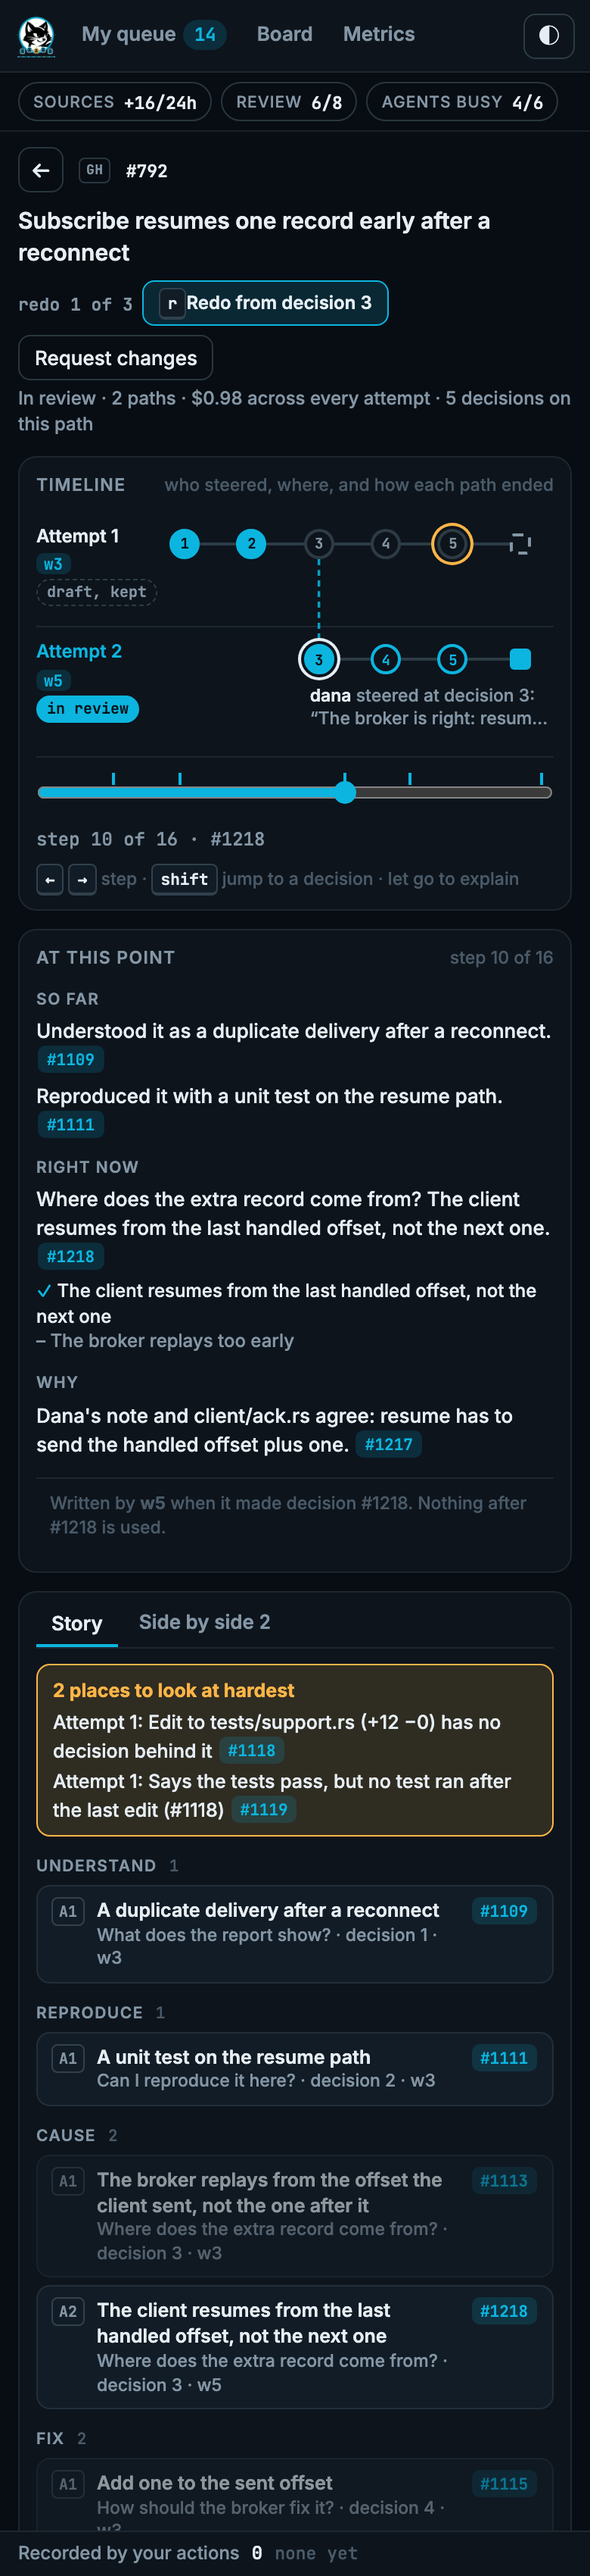
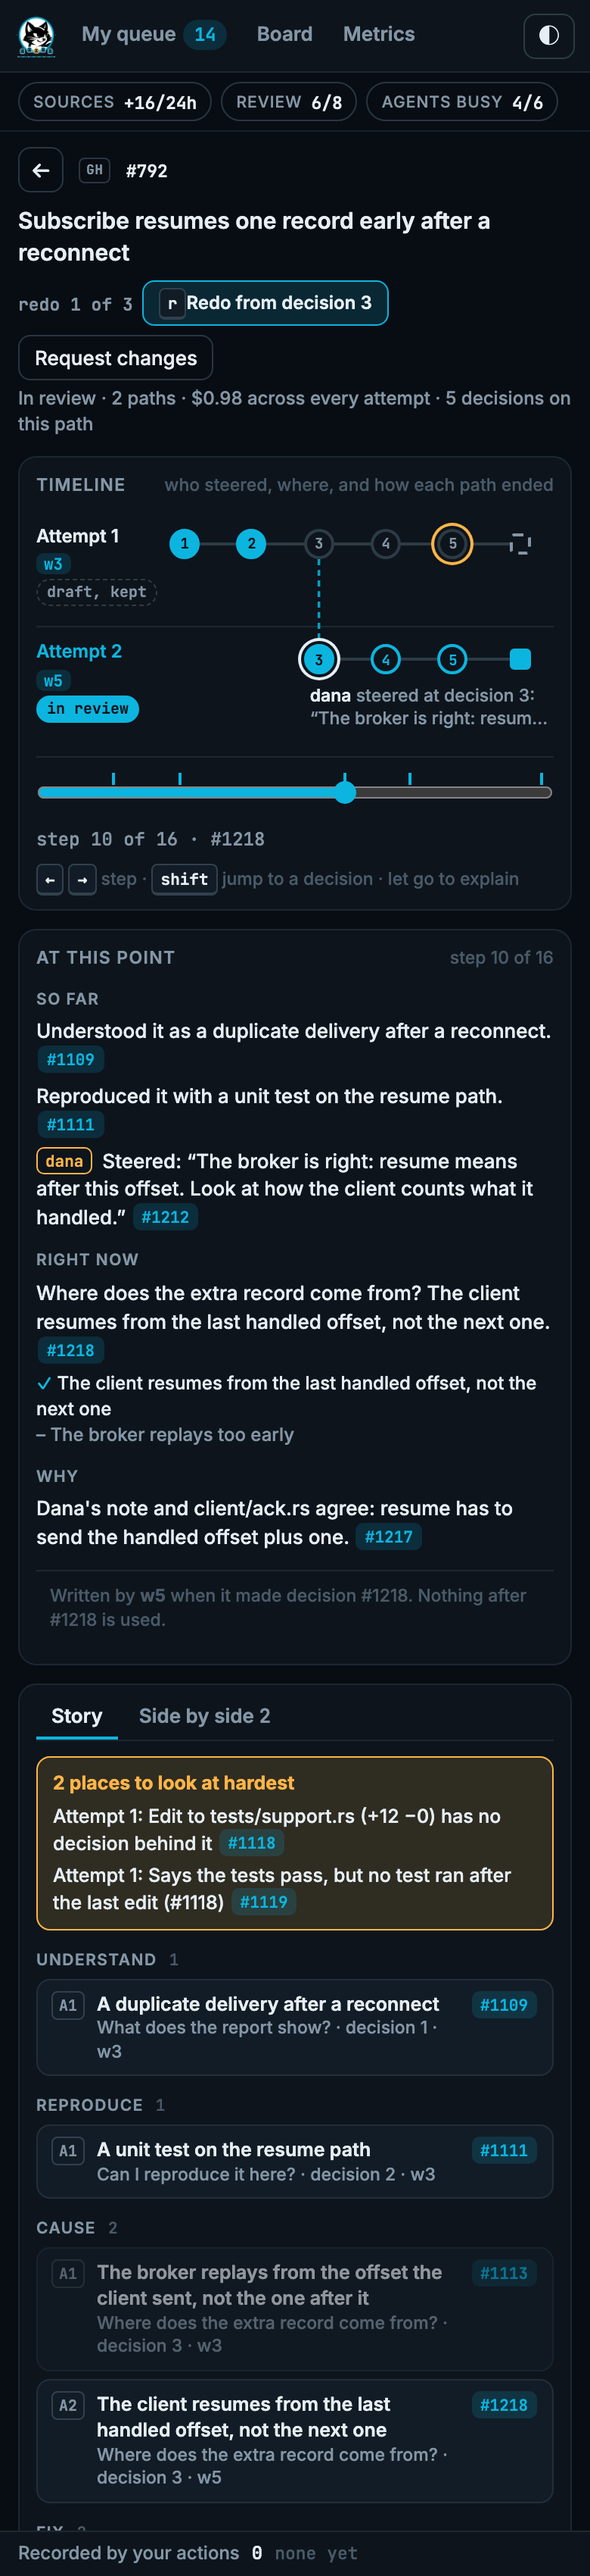
Replay: a person's steer stays on the path in So far and in the handoff; check and re-shot stills

Changed region(s): [[0.0615, 0.4365, 0.9538, 0.9665], [0.8, 0.8729, 0.9231, 0.9665], [0.0615, 0.9353, 0.1231, 0.9665]]

diff --git a/prototype/intake-frame.html b/prototype/intake-frame.html
@@ -377,6 +377,8 @@
   #explain.dragging .sec, #explain.dragging .src { opacity: 0.25; }
   #explain .drag { display: none; color: var(--muted); font-size: 12.5px; }
   #explain.dragging .drag { display: block; margin-bottom: 8px; }
+  .who { font: 600 10.5px/1 "JetBrains Mono", monospace; color: var(--amber); border: 1px solid var(--amber); border-radius: 5px; padding: 1px 5px; margin-right: 3px; white-space: nowrap; vertical-align: 1px; }
+  .nar li .who { flex: none; margin: 3px 0 0; }
   .cite { display: inline-block; height: 18px; padding: 0 5px; margin: 0 1px; vertical-align: 1px; font: 600 10.5px/16px "JetBrains Mono", monospace; color: var(--cyan); background: var(--cyan-soft); border: 1px solid transparent; border-radius: 5px; cursor: pointer; }
   .cite:hover { border-color: var(--cyan); }
   .cite.on { background: var(--cyan); color: var(--on-cyan); }
@@ -1518,7 +1520,7 @@ function describe(key, o) {
 const cite = (o) => `<button class="cite${replay?.cite === o ? ' on' : ''}" data-cite="${o}" title="${esc(replay ? describe(replay.key, o) : '')}">#${o}</button>`;
 const sentHtml = (s, upTo = Infinity) => {
   const c = (s.cites ?? []).filter((x) => x <= upTo);
-  return c.length ? `<p class="sent">${esc(s.text)} ${c.map(cite).join('')}</p>` : '';   // no offset, not shown
+  return c.length ? `<p class="sent">${s.by ? `<span class="who">${esc(s.by)}</span> ` : ''}${esc(s.text)} ${c.map(cite).join('')}</p>` : '';   // no offset, not shown
 };
 
 // The explanation at a step: the nearest decision at or before it, as recorded.
@@ -1775,10 +1777,30 @@ function redoPlan(d) {
   const slot = decisionsOf(pathOf(it, from)).findIndex((x) => x.o === d.o) + 1;
   return { it, from, est, after, later, slot, fb, total: it.cost + est };
 }
+// What the new agent is told: the decision's recorded so_far, plus every person's
+// steer on the path before the fork that the so_far does not already carry.
+function narrativeFor(it, d, useRecorded = true) {
+  const lines = (useRecorded ? d.so_far ?? [] : []).map((x) => ({ ...x }));
+  const cited = new Set(lines.flatMap((x) => x.cites ?? []));
+  for (const h of pathOf(it, d.attempt)) if (h.kind === 'human_input' && h.o < d.o && !cited.has(h.o)) lines.push({ text: `Steered: “${h.text}”`, cites: [h.o], by: h.by });
+  return lines;
+}
+window.narrativeFor = (key, o, useRecorded = true) => { const it = state.items.get(key); const d = itemRecs(key).find((r) => r.o === o); return narrativeFor(it, d, useRecorded); };
+window.handoffGaps = (key) => {
+  const it = state.items.get(key), out = [];
+  for (const h of itemRecs(key).filter((r) => r.kind === 'handoff')) {
+    const fk = itemRecs(key).find((r) => r.kind === 'forked_from' && r.attempt === h.attempt);
+    if (!fk) continue;
+    const have = new Set(h.narrative.flatMap((x) => x.cites ?? []));
+    const missing = pathOf(it, fk.from).filter((r) => r.kind === 'human_input' && r.o < fk.at && !have.has(r.o)).map((r) => r.o);
+    if (missing.length) out.push({ attempt: h.attempt, missing });
+  }
+  return out;
+};
 function openRedo(d, label = 'Redo from here') {
   const it = state.items.get(replay.key);
   if ((it.redos ?? 0) >= redoLimit() || cut < NOW) return false;
-  const lines = (d.so_far ?? []).map((s) => ({ text: s.text, cites: s.cites, struck: false, added: false, orig: s.text }));
+  const lines = narrativeFor(it, d).map((s) => ({ text: s.text, cites: s.cites, by: s.by, struck: false, added: false, orig: s.text }));
   dialog = { type: 'redo', d, label, lines, instruction: '', includeAfter: true };
   drawModal();
   return true;
@@ -1799,11 +1821,11 @@ function redoBody() {
     `<button data-close>Cancel</button><button class="primary" id="go" ${dialog.instruction.trim() ? '' : 'disabled'}>Hand off to a new attempt</button></div>`;
 }
 const narLine = (l, i) => `<li class="${l.struck ? 'struck' : ''}${l.added ? ' added' : ''}" data-i="${i}"><button class="x" data-strike="${i}" title="${l.struck ? 'Put this line back' : 'Strike this line'}" aria-label="${l.struck ? 'Restore line' : 'Strike line'}">${l.struck ? '↺' : '✕'}</button>` +
-  `<span class="t" contenteditable="${l.struck ? 'false' : 'true'}" role="textbox" aria-label="Narrative line ${i + 1}" data-i="${i}">${esc(l.text)}</span>${l.added ? '<span class="tg">you</span>' : l.text !== l.orig ? '<span class="tg">edited</span>' : (l.cites ?? []).map(cite).join('')}</li>`;
+  `${l.by ? `<span class="who">${esc(l.by)}</span>` : ''}<span class="t" contenteditable="${l.struck ? 'false' : 'true'}" role="textbox" aria-label="Narrative line ${i + 1}" data-i="${i}">${esc(l.text)}</span>${l.added ? '<span class="tg">you</span>' : l.text !== l.orig ? '<span class="tg">edited</span>' : (l.cites ?? []).map(cite).join('')}</li>`;
 
 function handoffBody(h, b) {
   return `<h2>Handoff for attempt ${h.attempt}</h2><p class="sub">One artifact on this item. Written by ${esc(h.by)}, it is what the new agent starts from, with start commit <span class="mono">${esc(h.commit)}</span>.</p>` +
-    `<h4>Story up to the fork</h4><ul class="nar">${h.narrative.map((l) => `<li class="${l.struck ? 'struck' : ''}${l.added ? ' added' : ''}"><span class="t">${esc(l.text)}</span>${l.added ? '<span class="tg">added</span>' : (l.cites ?? []).map((c) => `<span class="tg">#${c}</span>`).join('')}${l.struck ? '<span class="tg">struck</span>' : ''}</li>`).join('')}</ul>` +
+    `<h4>Story up to the fork</h4><ul class="nar">${h.narrative.map((l) => `<li class="${l.struck ? 'struck' : ''}${l.added ? ' added' : ''}">${l.by ? `<span class="who">${esc(l.by)}</span>` : ''}<span class="t">${esc(l.text)}</span>${l.added ? '<span class="tg">added</span>' : (l.cites ?? []).map((c) => `<span class="tg">#${c}</span>`).join('')}${l.struck ? '<span class="tg">struck</span>' : ''}</li>`).join('')}</ul>` +
     `<h4>Instruction</h4><p class="sent" style="margin:0">${esc(h.instruction)}</p>` +
     `<h4>Hindsight</h4><p class="sent" style="margin:0">${h.includeAfter ? 'Includes what the first attempt did afterwards and why it was sent back.' : 'Left out. A clean second opinion.'}</p>` +
     `<div class="foot"><span class="fine">Record #${h.o}${b?.run ? ` · run ${esc(b.run)}` : ''}</span><button data-close>Close</button></div>`;
@@ -1836,7 +1858,7 @@ function doRedo(d, lines, instruction, includeAfter) {
   }
   const commit = `c${n}${key.slice(-3)}${(d.o % 4096).toString(16)}`;
   emit('human_input', key, { input: 'redo', attempt: n, text: firstLine(instruction) });
-  emit('handoff', key, { id: `h${n}`, attempt: n, narrative: lines.map(({ text, cites, struck, added }) => ({ text, cites, ...(struck ? { struck: true } : {}), ...(added ? { added: true } : {}) })), instruction, includeAfter, commit });
+  emit('handoff', key, { id: `h${n}`, attempt: n, narrative: lines.map(({ text, cites, by, struck, added }) => ({ text, cites, ...(by ? { by } : {}), ...(struck ? { struck: true } : {}), ...(added ? { added: true } : {}) })), instruction, includeAfter, commit });
   const ho = recs.length - 1;
   emit('forked_from', key, { attempt: n, from, at: d.o, handoff: ho });
   emit('attempt_published', key, { attempt: n, handoff: ho, commit, by: undefined });

diff --git a/prototype/make-intake-fixture.py b/prototype/make-intake-fixture.py
@@ -306,9 +306,10 @@ class Run:
     """One attempt's records, in order. The working agent writes each decision's
     so_far, what it chose and why; nothing downstream generates text."""
 
-    def __init__(self, L, key, attempt, agent, start_ago, prior=()):
+    def __init__(self, L, key, attempt, agent, start_ago, prior=(), humans=()):
         self.L, self.key, self.attempt, self.agent, self.ago, self.usd = L, key, attempt, agent, start_ago, 0.0
         self.decs = list(prior)  # (id, group, chosen, so_far) for every decision on this path
+        self.humans = list(humans)  # (id, by, text, decisions before it) for every person's steer on this path
         self.last_read = None
 
     def _ev(self, gap_min, kind, **d):
@@ -325,12 +326,22 @@ class Run:
 
     def decide(self, id, gap, group, q, options, chosen, why, cites, claims=(), usd=0.06):
         self.usd += usd
-        so_far = [{"text": f"{LEAD[g]} {lower(c)}.", "cites": ["@" + i]} for i, g, c, _ in self.decs[-3:]]
+        entries = []
+        for i, (di, g, c, _) in enumerate(self.decs):
+            entries += [{"text": f"Steered: “{t}”", "cites": ["@" + hid], "by": by} for hid, by, t, n in self.humans if n == i]
+            entries.append({"text": f"{LEAD[g]} {lower(c)}.", "cites": ["@" + di], "dec": True})
+        entries += [{"text": f"Steered: “{t}”", "cites": ["@" + hid], "by": by} for hid, by, t, n in self.humans if n >= len(self.decs)]
+        decs = [i for i, e in enumerate(entries) if e.get("dec")][-3:]
+        so_far = [{k: v for k, v in e.items() if k != "dec"} for i, e in enumerate(entries) if not e.get("dec") or i in decs]
         if not so_far:
             so_far = [{"text": "Read the report and the code around it; no decision yet.", "cites": ["@" + self.last_read] if self.last_read else cites}]
         self.decs.append((id, group, chosen, so_far))
         self._ev(gap, "decision", id=id, agent=self.agent, group=group, q=q, options=options, chosen=chosen, why=why,
                  cites=list(cites), so_far=so_far, claims=list(claims), usd=usd)
+
+    def humans_before(self, id):
+        k = next(i for i, d in enumerate(self.decs) if d[0] == id)
+        return [h for h in self.humans if h[3] <= k]
 
     def before(self, id):
         out = []
@@ -356,15 +367,21 @@ def redo(L, key, ago, by, new, parent, fork_run, fork_id, note, instruction, str
     """The reviewer's note, the handoff artifact (the fork decision's recorded
     so_far plus the reviewer's edits, and the instruction), the fork record, and
     the new attempt published to Ready. An agent claims it afterwards."""
-    narrative = [{"text": x["text"], "cites": x["cites"], **({"struck": True} if i in strike else {})} for i, x in enumerate(fork_run.so_far_at(fork_id))]
+    narrative = [{**x, **({"struck": True} if i in strike else {})} for i, x in enumerate(fork_run.so_far_at(fork_id))]
     narrative += [{"text": t, "cites": [], "added": True} for t in add]
     hid = f"h{new}"
     for n in close:  # only two attempts stay open, so starting this one closes another
         L.ev(ago + 0.1 * MIN, "attempt_closed", key, attempt=n, reason=f"closed when attempt {new} started, so only two stay open")
-    L.ev(ago, "human_input", key, by=by, input="redo", attempt=new, text=note)
+    L.ev(ago, "human_input", key, id=f"hi{new}", by=by, input="redo", attempt=new, text=note)
     L.ev(ago - 0.2 * MIN, "handoff", key, id=hid, by=by, attempt=new, narrative=narrative, instruction=instruction, includeAfter=include_after, commit=f"c{new}{key[-3:]}e2")
     L.ev(ago - 0.4 * MIN, "forked_from", key, by=by, attempt=new, **{"from": parent}, at="@" + fork_id, handoff="@" + hid)
     L.ev(ago - 0.6 * MIN, "attempt_published", key, attempt=new, handoff="@" + hid, commit=f"c{new}{key[-3:]}e2")
+
+
+NOTE_A2 = "The broker is right: resume means after this offset. Look at how the client counts what it handled."
+NOTE_B2 = "Counting at the ack loses publishes that are still in flight. Dedupe by publish id instead."
+NOTE_B3 = "The limiter is not where the retry comes from. The gateway resends without an id."
+NOTE_B4 = "Stamping in the client breaks old clients. Stamp it at the gateway edge."
 
 
 def replay_items(L):
@@ -398,10 +415,10 @@ def replay_items(L):
           {"changed": "Resumes from the offset after the one the client sent", "verified": "reconnect_resume and the subscribe tests pass", "unsure": ""})
 
     redo(L, k, 5 * HOUR, "dana", 2, 1, a1, "a1d3",
-         "The broker is right: resume means after this offset. Look at how the client counts what it handled.",
+         NOTE_A2,
          "Find where the client picks the offset it sends on resume and fix it there. Leave the broker alone.",
          add=["Resume means after the offset sent. That is the wire contract, so the broker is right."])
-    a2 = Run(L, k, 2, "w5", 5 * HOUR - 2 * MIN, prior=a1.before("a1d3"))
+    a2 = Run(L, k, 2, "w5", 5 * HOUR - 2 * MIN, prior=a1.before("a1d3"), humans=a1.humans_before("a1d3") + [("hi2", "dana", NOTE_A2, len(a1.before("a1d3")))])
     a2.claim()
     a2.tool("a2s1", 4, "read", "client/ack.rs", "Acks offset N when the callback starts; resume sends N")
     a2.decide("a2d3", 3, "cause", "Where does the extra record come from?",
@@ -443,9 +460,9 @@ def replay_items(L):
     b1.decide("b1d4", 2, "verify", "Is it ready?", ["Open the PR", "Test with slow acks"], "Open the PR", "limiter_retry passes.", ["@b1s3"], claims=["tests pass"])
     b1.pr(5, 3133, 31, 14, 2, "pass", "dana", {"changed": "Counts a publish at its ack", "verified": "limiter_retry passes", "unsure": ""})
     redo(L, k, 3 * DAY + 20 * HOUR, "dana", 2, 1, b1, "b1d3",
-         "Counting at the ack loses publishes that are still in flight. Dedupe by publish id instead.",
+         NOTE_B2,
          "Dedupe retried publishes by their publish id in the limiter.")
-    b2 = Run(L, k, 2, "w4", 3 * DAY + 20 * HOUR - 2 * MIN, prior=b1.before("b1d3"))
+    b2 = Run(L, k, 2, "w4", 3 * DAY + 20 * HOUR - 2 * MIN, prior=b1.before("b1d3"), humans=b1.humans_before("b1d3") + [("hi2", "dana", NOTE_B2, len(b1.before("b1d3")))])
     b2.claim()
     b2.decide("b2d3", 4, "fix", "Where should it count?", ["Dedupe by publish id in the limiter", "Dedupe in the gateway"], "Dedupe by publish id in the limiter",
               "The limiter already sees the id on every send.", ["@b1d2"])
@@ -453,9 +470,9 @@ def replay_items(L):
     b2.decide("b2d4", 3, "verify", "Is it ready?", ["Open the PR"], "Open the PR", "The limiter now ignores a repeated id.", ["@b2e1"], claims=["tests pass"])
     b2.pr(4, 3135, 44, 6, 3, "pass", "kim", {"changed": "The limiter ignores a repeated publish id", "verified": "", "unsure": "Did not run the tests"})
     redo(L, k, 3 * DAY + 8 * HOUR, "kim", 3, 1, b1, "b1d2",
-         "The limiter is not where the retry comes from. The gateway resends without an id.",
+         NOTE_B3,
          "Find why a retry arrives without a publish id.", close=[2])
-    b3 = Run(L, k, 3, "w6", 3 * DAY + 8 * HOUR - 2 * MIN, prior=b1.before("b1d2"))
+    b3 = Run(L, k, 3, "w6", 3 * DAY + 8 * HOUR - 2 * MIN, prior=b1.before("b1d2"), humans=b1.humans_before("b1d2") + [("hi3", "kim", NOTE_B3, len(b1.before("b1d2")))])
     b3.claim()
     b3.decide("b3d2", 4, "cause", "Why is the count high?", ["The gateway retries without the id", "The client sends two publishes"], "The gateway retries without the id",
               "Kim's note, and the retry path never copies the id.", ["@b1s1"])
@@ -467,9 +484,9 @@ def replay_items(L):
     b3.decide("b3d4", 2, "verify", "Is it ready?", ["Open the PR"], "Open the PR", "Both retry tests pass.", ["@b3s2"], claims=["tests pass"])
     b3.pr(4, 3138, 52, 9, 3, "pass", "dana", {"changed": "Stamps the publish id in the client before the first send", "verified": "limiter_retry and gateway_retry pass", "unsure": ""})
     redo(L, k, 2 * DAY + 3 * HOUR, "dana", 4, 3, b3, "b3d3",
-         "Stamping in the client breaks old clients. Stamp it at the gateway edge.",
+         NOTE_B4,
          "Stamp the id where a publish enters the gateway.", close=[1])
-    b4 = Run(L, k, 4, "w2", 2 * DAY + 3 * HOUR - 2 * MIN, prior=b3.before("b3d3"))
+    b4 = Run(L, k, 4, "w2", 2 * DAY + 3 * HOUR - 2 * MIN, prior=b3.before("b3d3"), humans=b3.humans_before("b3d3") + [("hi4", "dana", NOTE_B4, len(b3.before("b3d3")))])
     b4.claim()
     b4.decide("b4d3", 4, "fix", "Where should the id be set?", ["Stamp it at the gateway edge"], "Stamp it at the gateway edge", "Dana's note: old clients never send one.", ["@b3d2"])
     b4.edit("b4e1", 9, "gateway/ingress.rs", 11, 0, "@b4d3")
